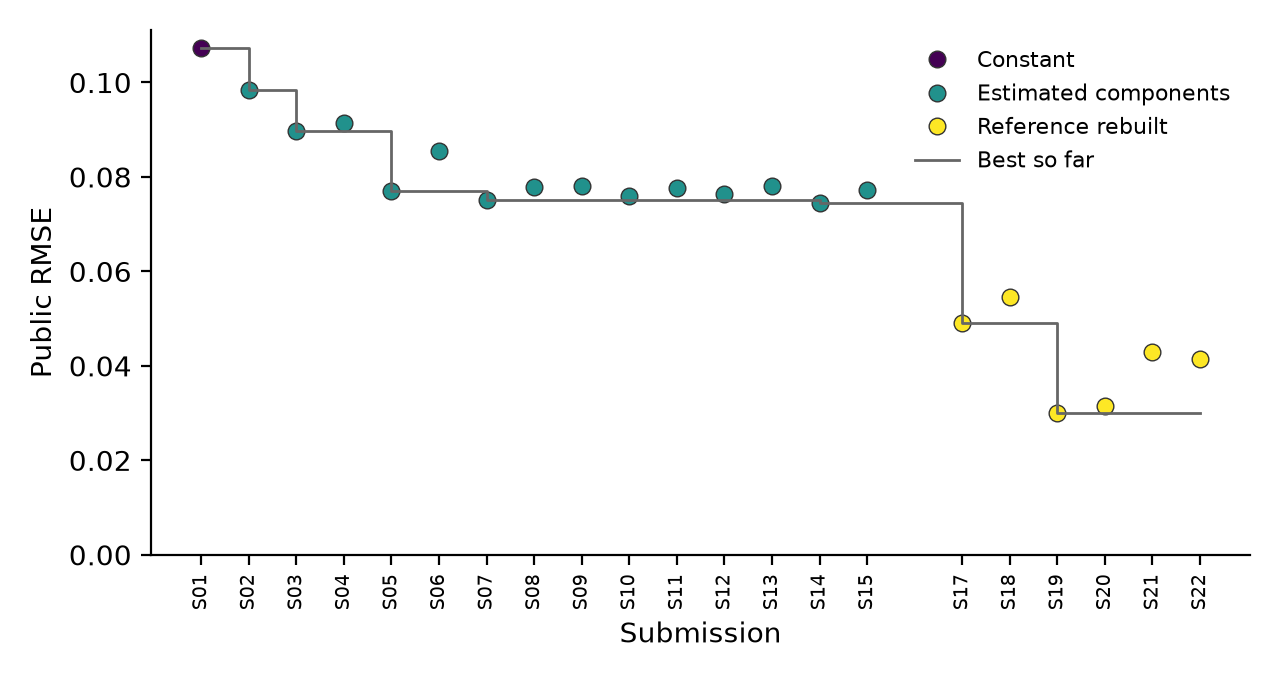
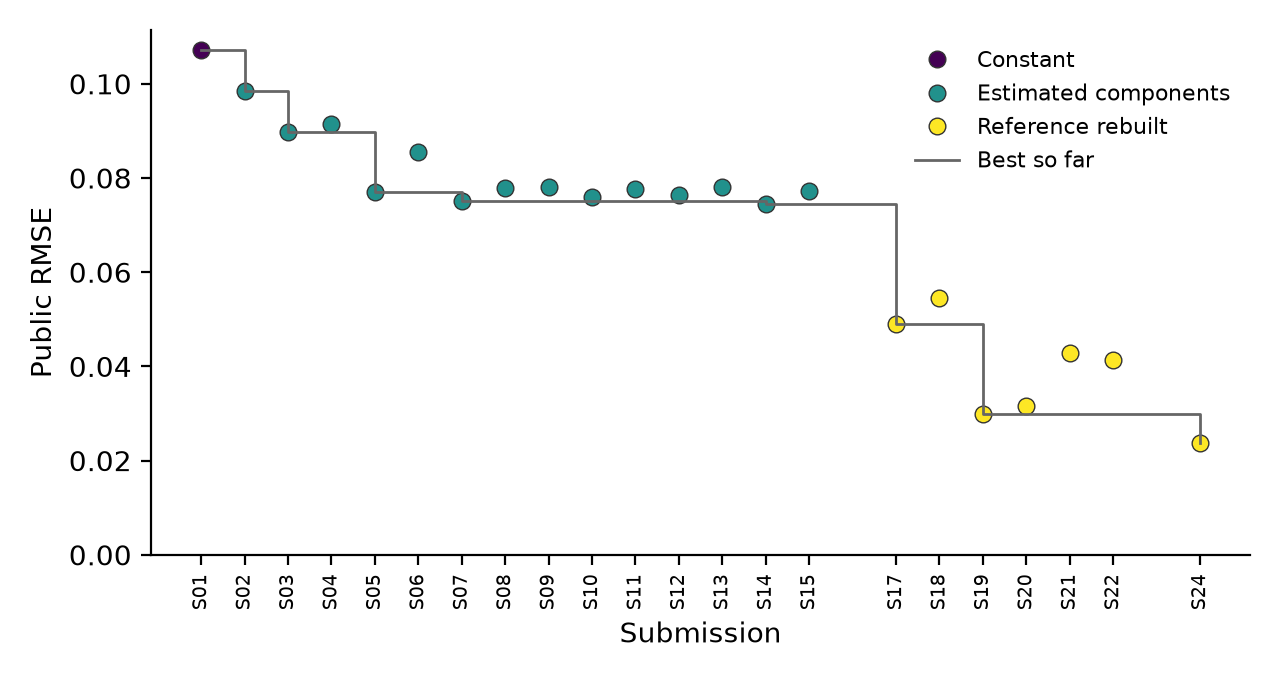
docs(writeup): make s24 final a and document the hud crosswalk

diff --git a/docs/writeup/methodology.tex b/docs/writeup/methodology.tex
@@ -49,7 +49,9 @@ layers that the organisers removed from the challenge bucket on 25 September
 challenge package brought the public RMSE from 0.1072 for the all-zero file to
 0.0745. After Zindi staff confirmed on 27 October that the public versions of
 those layers could be used, the pipeline rebuilt the reference side of each component from those sources and
-reached 0.02996 (submission S19). The rebuilt transport component reproduces
+reached 0.02996 (submission S19), then 0.02380 (S24) once ZIP establishment
+counts were apportioned to tracts by HUD business-address ratios. The rebuilt
+transport component reproduces
 the organisers' published undefined rates to within one percentage point in
 all four documented regions, and their published spread of road length ratios
 (0.71 to 1.59) once road length on shared tract boundaries is counted once.
@@ -97,8 +99,8 @@ Section~\ref{sec:scorecard} reflects on the scorecard and
 Section~\ref{sec:bias} presents the bias discovery.
 
 All submissions were made by Zindi user \zindiuser{}, entering solo.
-The two submissions selected for private scoring are S19 (public RMSE
-0.029961) and S20 (0.031525), described in Section~\ref{sec:final}; the
+The two submissions selected for private scoring are S24 (public RMSE
+0.023796) and S19 (0.029961), described in Section~\ref{sec:final}; the
 others referred to in this paper are listed in Table~\ref{tab:history}.
 
 \section{Data}
@@ -138,7 +140,13 @@ Census Business Patterns) could be used. Facility counts were taken from the
 USGS National Map structures, which the challenge page names as the facility
 reference and which is the source of the HIFLD fire station layer. The pipeline then
 downloaded the sources in Table~\ref{tab:sources} directly from their
-publishers inside Kaggle kernels. No earlier version of the challenge bucket,
+publishers inside Kaggle kernels. The one exception is the HUD USPS ZIP-TRACT
+crosswalk \cite{hud}, which HUD now serves only through a token API. Its
+archived copy on DataLumos (project 219325, version V2) was downloaded on 29
+October 2026, the Q4 2024 ZIP-TRACT file was converted from xlsx to parquet
+with ZIP and tract codes kept as text (\texttt{scripts/hud\_dataset.py}), and
+the result was published as a private Kaggle dataset read by stage 07. No
+earlier version of the challenge bucket,
 no old challenge zip and no third-party mirror of the removed layers was
 used. Organiser score files of any kind were never opened; a file guard
 rejects any path containing \texttt{coverage-gap} or
@@ -149,18 +157,19 @@ if any reader bypasses it.
 \centering
 \small
 \caption{Reference sources rebuilt from their publishers. ``Final'' marks the
-sources used by the selected submissions S19 and S20.}
+sources used by the selected submissions S24 and S19.}
 \label{tab:sources}
 \resizebox{\textwidth}{!}{%
 \begin{tabular}{llll}
 \toprule
 Source & Vintage & Used for & Final \\
 \midrule
-Census TIGER/Line primary and secondary roads (S1100, S1200) & 2025 & transport reference & S19, S20 \\
-USGS National Map structures, fire stations (FCODE 74026) & 2026 & fire reference & S19, S20 \\
-USGS National Map structures, schools (FCODE 73002 to 73005) & 2026 & school reference & S19, S20 \\
-Census ZIP Code Business Patterns, establishments per ZIP & 2023 & establishments reference & S20 \\
-Census 2020 ZCTA to tract relationship file & 2020 & apportioning ZIP counts & S20 \\
+Census TIGER/Line primary and secondary roads (S1100, S1200) & 2025 & transport reference & S24, S19 \\
+USGS National Map structures, fire stations (FCODE 74026) & 2026 & fire reference & S24, S19 \\
+USGS National Map structures, schools (FCODE 73002 to 73005) & 2026 & school reference & S24, S19 \\
+Census ZIP Code Business Patterns, establishments per ZIP & 2023 & establishments reference & S24 \\
+HUD USPS ZIP-TRACT crosswalk, business-address ratios & Q4 2024 & apportioning ZIP counts & S24 \\
+Census 2020 ZCTA to tract relationship file & 2020 & apportioning ZIP counts (S20) & no \\
 USGS National Map structures, ambulance services (FCODE 74034) & 2026 & EMS reference (S21) & no \\
 Microsoft US Building Footprints & v2 & building reference (S18) & no \\
 HIFLD Open archive: fire and EMS stations, public and private schools & 2025 & S22 & no \\
@@ -193,7 +202,7 @@ Table~\ref{tab:stages} their measured cost.
   ext/.style={box, draw=accent, dashed},
   arr/.style={-{Stealth[length=2mm]}, draw=navy}]
 \node[box] (feat) at (4.2, 2.4) {02 features\\per-tract Overture};
-\node[ext] (est) at (4.2, 0.8) {07 establishments\\ZBP, ZCTA-tract};
+\node[ext] (est) at (4.2, 0.8) {07 establishments\\ZBP, HUD crosswalk};
 \node[ext] (ref) at (4.2, -0.8) {05 reference\\TIGER, Microsoft};
 \node[ext] (fac) at (4.2, -2.4) {06 facilities\\USGS structures};
 \node[box] (ingest) at (0, 0) {01 ingest\\bucket sync, audit};
@@ -227,9 +236,9 @@ Stage & Run & Wall (min) & Peak RSS (GB) \\
 02 features & 20261026-1136-02\_features-c1f6404 & 27.9 & 6.99 \\
 05 reference & 20261027-2145-05\_reference-0add93b & 33.9 & 3.55 \\
 06 facilities & 20261028-0024-06\_facilities-8d8b042 & 8.7 & 0.49 \\
-07 establishments & 20261028-0959-07\_establishments-71cca39 & 1.1 & 0.17 \\
+07 establishments & 20261030-0946-07\_establishments-decc7f9 & 1.2 & 0.22 \\
+03 model (S24) & 20261030-0947-03\_model-30d804e & 1.4 & 0.55 \\
 03 model (S19) & 20261028-0947-03\_model-672866c & 3.6 & 0.60 \\
-03 model (S20) & 20261028-1001-03\_model-4b63973 & 1.3 & 0.55 \\
 04 analysis & 20261029-2348-04\_analysis-503f5c5 & 22.7 & 0.38 \\
 \bottomrule
 \end{tabular}
@@ -358,6 +367,23 @@ place count as a stand-in for business addresses, which makes $E$ positive in
 24\,\% of the S20 change: some establishment gaps exist, placed differently
 from this apportionment.
 
+The standard tool for moving ZIP-level business counts to tracts is the HUD
+USPS ZIP-TRACT crosswalk, which gives for each ZIP the share of its business
+addresses (\texttt{BUS\_RATIO}) and residential addresses
+(\texttt{RES\_RATIO}) in each tract. A competitor's public repository,
+posted to the challenge discussion, lists the organisers' establishment
+reference columns as \texttt{cbp\_estab} and \texttt{cbp\_estab\_res}, which
+match these two ratios; no file from that repository was used. S24 therefore
+sets the reference to ZIP Business Patterns 2023 establishments times
+\texttt{BUS\_RATIO} from the Q4 2024 crosswalk, summed over the ZIPs that
+reach each tract, compares it with all Overture places in the tract, and
+leaves $E$ undefined where the result is 0. $E$ becomes positive in 2.4\,\%
+of tracts and 253 tracts change. The public RMSE fell from 0.0300 to 0.0238,
+and the line search along S19 to S24 gave $t^\ast = 1.17$, so the change is
+right in full. Offline checks of the 2023 crosswalk quarters, ZBP 2022, the
+residential and total ratios, and scale factors from 0.9 to 1.3 found no
+variant clearly better than S24.
+
 \subsection{Composite and definedness}
 
 With every component rebuilt from counts and lengths, definedness follows
@@ -414,7 +440,8 @@ lists them and Figure~\ref{fig:history} plots the scores.
 \begin{figure}[htbp]
 \centering
 \includegraphics[width=0.85\textwidth]{fig_submissions.png}
-\caption{Public RMSE by submission. S16 was not scored.}
+\caption{Public RMSE by submission. S16 was not scored; S23, a competitor's
+file uploaded as a benchmark, is left out.}
 \label{fig:history}
 \end{figure}
 
@@ -445,10 +472,12 @@ S14 & Combined levels & 0.07454 & Best estimate-only method \\
 S15 & Fire stations drive the facility half & 0.07716 & Partly kept \\
 S17 & Transport rebuilt from TIGER 2025 & 0.04906 & Kept \\
 S18 & Building rebuilt from Microsoft US v2 & 0.05462 & Dropped \\
-S19 & Fire and school gaps from USGS structures, $E = 0$ & 0.02996 & Final A \\
-S20 & S19 with ZBP establishments apportioned by places & 0.03153 & Final B \\
+S19 & Fire and school gaps from USGS structures, $E = 0$ & 0.02996 & Final B \\
+S20 & S19 with ZBP establishments apportioned by places & 0.03153 & Dropped \\
 S21 & S19 with EMS from USGS ambulance services & 0.04289 & Dropped \\
 S22 & S19 with HIFLD schools & 0.04136 & Dropped \\
+S23 & A competitor's published file, uploaded as a benchmark & 0.00227 & Not ours \\
+S24 & S19 with ZBP establishments apportioned by HUD business ratios & 0.02380 & Final A \\
 \bottomrule
 \end{tabular}}
 \end{table}
@@ -482,21 +511,24 @@ model strength (0.3). The rebuilt method uses only the building baseline gap.
 \subsection{Final selection}
 \label{sec:final}
 
-S19 is the best public score and depends on one tuned scalar. S20 is the same
-method with the establishments half rebuilt from public counts, the only
-other part of the formula with independent evidence of signal ($t^\ast =
-0.24$). It differs from S19 in 143 tracts (1.5\,\%) and hedges the private
-split against the case where establishment gaps matter more there.
+S24 is the best public score of this pipeline and depends on one tuned
+scalar. S19 is the same method with the establishments half at 0. It differs
+from S24 in 253 tracts and hedges the private split against the case where the
+HUD apportionment fits the public tracts better than the private ones. S23 was
+a competitor's published file, uploaded once to see its score. It was not
+produced by this pipeline, its inputs include the organisers' removed
+reference files, and it is not selected.
 
 \section{Bias Scorecard reflections}
 \label{sec:scorecard}
 
 The scorecard reports disparity ratios of the predicted score between strata.
 For the all-zero file every ratio was unavailable. Under the estimation phase
-(S13) the tribal ratio was 1.30 and the rural ratio 1.25. Under the rebuilt
-method the ratios, recomputed from the S19 predictions with the scorecard's
-strata, are 3.02 for tribal against non-tribal tracts, 2.5 for rural against
-urban and 1.15 for high against other social vulnerability. The rise comes
+(S13) the tribal ratio was 1.30 and the rural ratio 1.25. On the scorecard for
+S24 they are 2.92 for tribal against non-tribal tracts, 2.42 for rural against
+urban, 1.22 for high social vulnerability, 1.46 for high climate
+vulnerability and 1.81 for wildfire hazard, with summer heat the one stratum
+where the gap is smaller (0.54). The rise comes
 mostly from transport in Eastern Oklahoma, where 805 of 1,192 scored tracts
 overlap a tribal area and the mean transport gap where defined is 0.355,
 against 0.123 in South-Central Texas, and from fire stations, whose gap where
@@ -677,13 +709,14 @@ the name, that none of them reads.
 
 The gap form in Equation~\ref{eq:gap} is taken from the organisers'
 description and README; their code was not available. The establishments
-apportionment is undocumented, and the best evidence (S20) is that some
-establishment gaps exist but fall in different tracts from a place-weighted
-apportionment. The organisers' Microsoft footprint release is unknown, and
+apportionment is undocumented; the HUD business-address ratios fit it well
+($t^\ast = 1.17$), but the organisers' crosswalk quarter and Business
+Patterns year are unknown. The organisers' Microsoft footprint release is unknown, and
 the public release made the score worse, so the building component is held
 at 0 where Overture has footprints. The TIGER 2025 and USGS 2026 files may
-differ from the vintages the organisers used. The remaining public error of
-0.030 sits in these components. The bias discovery uses Overture names as
+differ from the vintages the organisers used, and their EMS reference could
+not be rebuilt from public data. The remaining public error of 0.024 sits in
+these components. The bias discovery uses Overture names as
 published. A road may carry a name in a local addressing system that
 Overture does not hold; in that case the open map lacks the name, which is
 the gap being measured.
@@ -693,15 +726,15 @@ the gap being measured.
 Code, configuration and logs are in a private git repository that will be
 released to Zindi reviewers on request. Every compute stage runs on Kaggle
 from a code dataset built from a clean commit, with the commit hash written to
-each output. The final submissions come from commits \texttt{672866c} (S19)
-and \texttt{4b63973} (S20) with the overrides in Table~\ref{tab:overrides}.
+each output. The final submissions come from commits \texttt{30d804e} (S24)
+and \texttt{672866c} (S19) with the overrides in Table~\ref{tab:overrides}.
 Python 3.13.15 on the Kaggle image, DuckDB 1.5.4, numpy 2.1.3, pandas 2.3.3;
 the full \texttt{pip freeze} is saved with each run. The seed is 20261025 for
-every random generator. The rebuilt components involve no random draws. On
-29 October both final configurations were rerun on Kaggle from the current
-code (\texttt{make reproduce FINAL=A} and \texttt{FINAL=B}, runs
-\texttt{20261029-2244-03\_model-50be6bb} and
-\texttt{20261029-2345-03\_model-efe2776}); each output matched the uploaded
+every random generator. The rebuilt components involve no random draws. Both
+final configurations were rerun on Kaggle from later code with
+\texttt{make reproduce}: S19 on 29 October (run
+\texttt{20261029-2244-03\_model-50be6bb}) and S24 on 30 October (run
+\texttt{20261030-1008-03\_model-c516b52}). Each output matched the uploaded
 file in every cell, with a largest float difference of 0 and no differing
 flag. Runtimes and
 memory are in Table~\ref{tab:stages}. The commands are
@@ -717,9 +750,9 @@ the order 01, 02, 05, 06, 07, 03.
 \toprule
 Submission & Overrides on \texttt{configs/model.yaml} \\
 \midrule
-S19 & \texttt{transport.source=tiger building.baseline\_gap=0 poi.source=reference} \\
-    & \texttt{poi.reference\_types=[fire,schools] poi.establishment\_weight=none} \\
-S20 & as S19 with \texttt{poi.establishment\_weight=places} \\
+S24 & \texttt{transport.source=tiger building.baseline\_gap=0 poi.source=reference} \\
+    & \texttt{poi.reference\_types=[fire,schools] poi.establishment\_weight=bus} \\
+S19 & as S24 with \texttt{poi.establishment\_weight=none} \\
 \bottomrule
 \end{tabular}
 \end{table}
@@ -758,6 +791,12 @@ US Census Bureau (2025). ZIP Code Business Patterns 2023, totals file.
 \bibitem{zcta}
 US Census Bureau (2022). 2020 ZCTA to census tract relationship file.
 \url{https://www2.census.gov/geo/docs/maps-data/data/rel2020/zcta520/}
+
+\bibitem{hud}
+US Department of Housing and Urban Development. HUD USPS ZIP Code
+Crosswalk Files, ZIP-TRACT, fourth quarter 2024. Archived copy: DataLumos
+project 219325, version V2, retrieved 29 October 2026.
+\url{https://www.datalumos.org/datalumos/project/219325/version/V2/view}
 
 \bibitem{msbuildings}
 Microsoft (2020). US Building Footprints, version 2.
